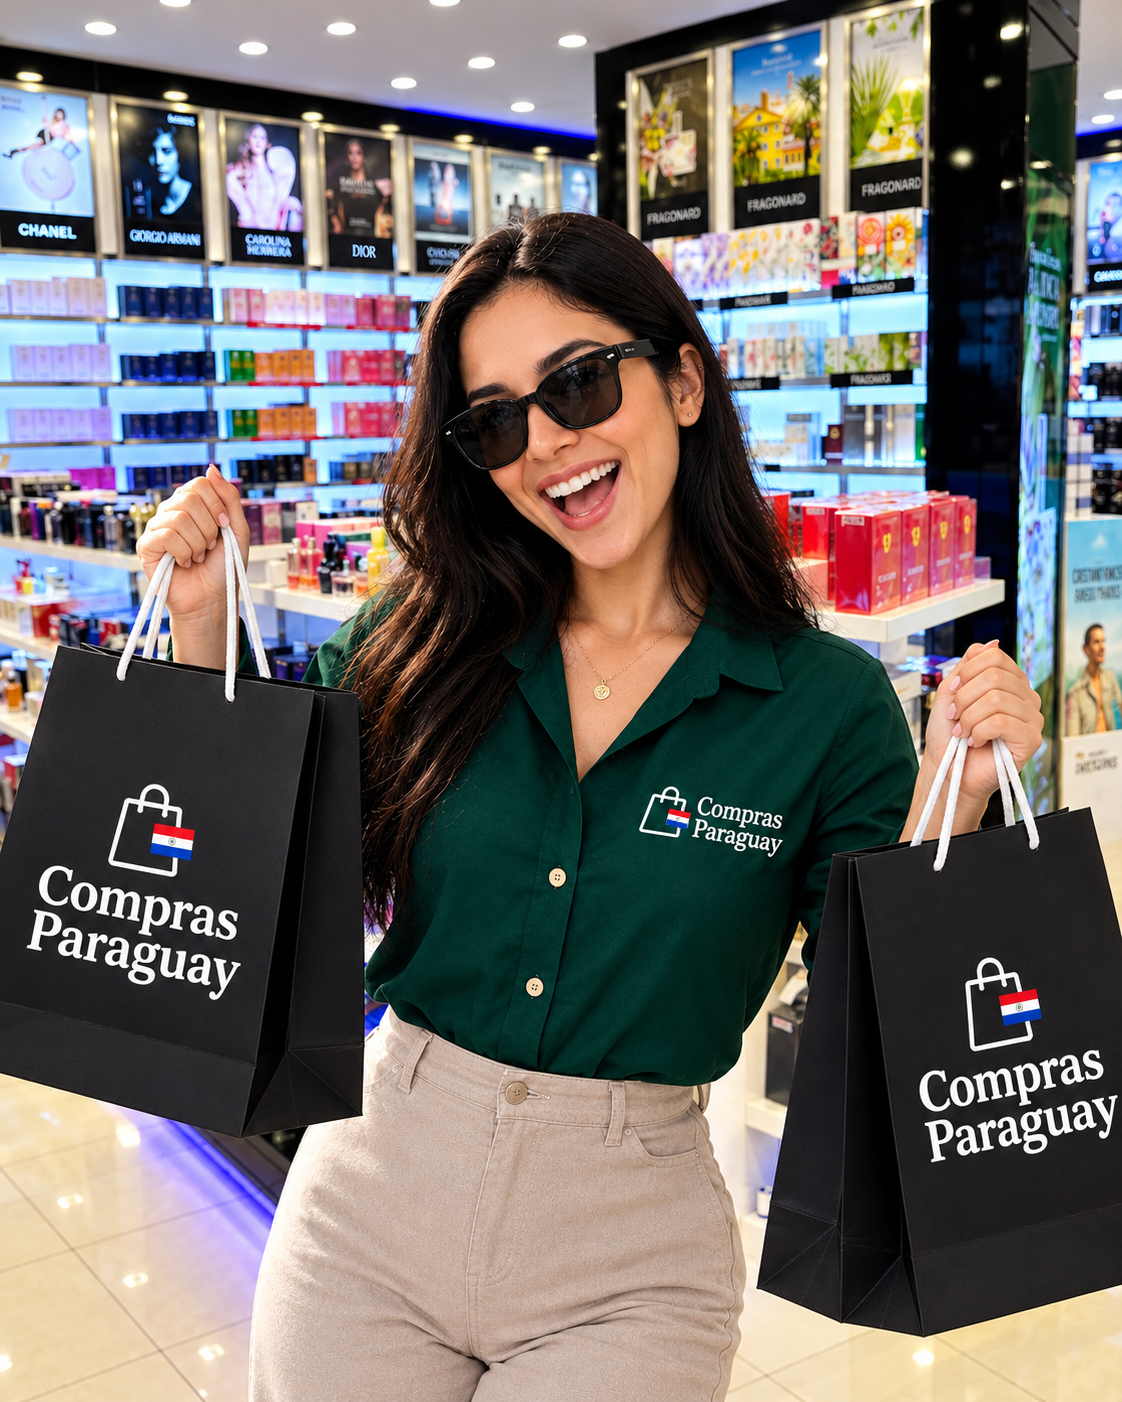
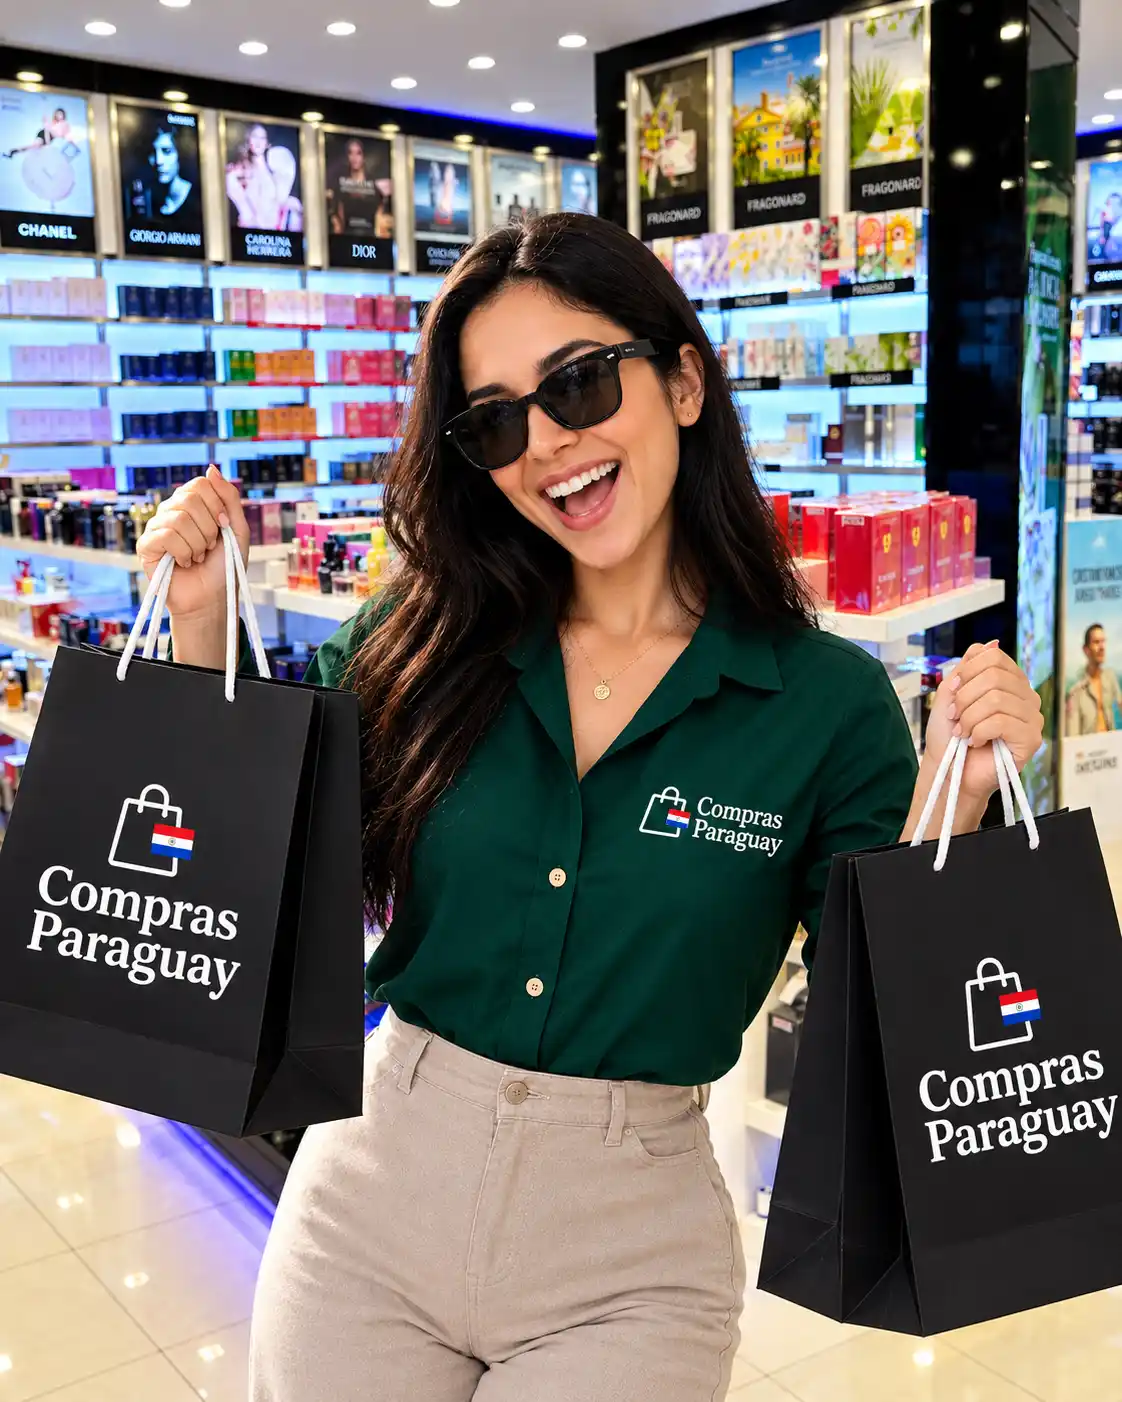
perf(imagens): AVIF primeiro no next/image + hero comprimido
- next.config: images.formats ['image/avif','image/webp'] — corta bytes por imagem sem mudanca visual, fallback WebP
- especialista-2-compras-paraguay.webp: 1,7 MB -> 93 KB (1121x1401)

diff --git a/next.config.ts b/next.config.ts
@@ -11,6 +11,13 @@ const nextConfig: NextConfig = {
   // Não anunciar o framework.
   poweredByHeader: false,
 
+  // AVIF antes de WebP: mesmo sem mudança visual, corta dezenas de KB por imagem e melhora
+  // LCP/FCP no mobile. O Next negocia pelo `Accept` do navegador e cai para WebP onde AVIF não
+  // é suportado. Sem esta chave o padrão é só WebP.
+  images: {
+    formats: ["image/avif", "image/webp"],
+  },
+
   // `X-Robots-Tag: noindex` nas páginas privadas por header, além do `<meta name="robots">` que
   // elas já emitem. O header vale para respostas que o crawler busca cru (ex.: `/r/<token>`), onde
   // a meta tag sozinha é frágil — e é mais difícil de um proxy/CDN remover por acidente.
